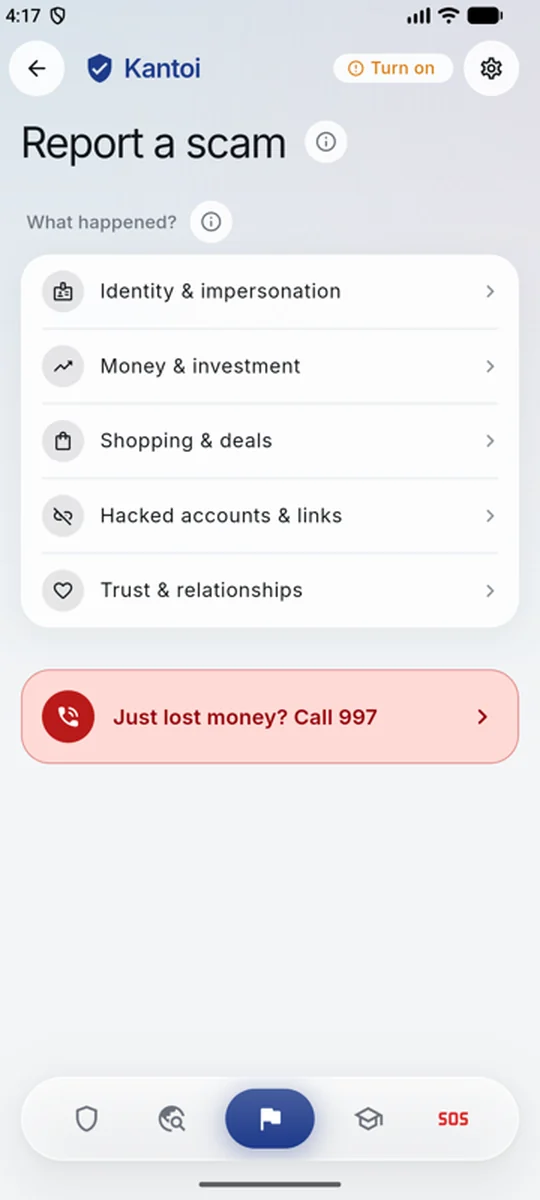
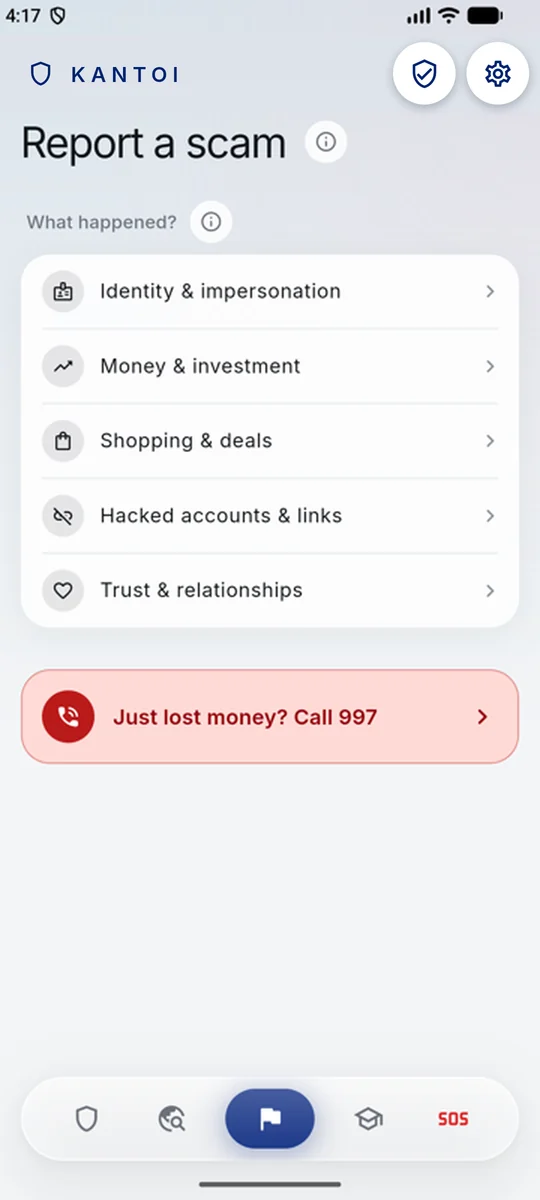
Use the KANTOI header on all five phone screens

Changed region(s): [[0.6222, 0.0308, 0.9778, 0.0925], [0.1481, 0.0308, 0.3852, 0.0925], [0.0, 0.0308, 0.1185, 0.0925]]

diff --git a/index.html b/index.html
@@ -11,7 +11,7 @@
 <link rel="preconnect" href="https://fonts.gstatic.com" crossorigin>
 <link rel="stylesheet" href="https://fonts.googleapis.com/css2?family=Inter:wght@400;600;800&display=swap">
 <link rel="stylesheet" href="https://fonts.googleapis.com/css2?family=Material+Symbols+Rounded:opsz,wght,FILL,GRAD@24,500,1,0&display=block">
-<link rel="stylesheet" href="style.css?v=9">
+<link rel="stylesheet" href="style.css?v=10">
 </head>
 <body>
 
@@ -204,7 +204,7 @@
       <div class="phone-notch"></div>
       <div class="phone-screen kui">
         <div class="k-status"><b>9:41</b><span class="ms">signal_cellular_alt</span><span class="ms">wifi</span><span class="ms">battery_full</span></div>
-        <div class="k-top"><svg class="mini-shield"><use href="#shield"/></svg><b>Kantoi</b><span class="ms">verified_user</span><span class="ms">settings</span></div>
+        <div class="k-top"><img src="screens/kantoi-header-light.png" width="1080" height="152" alt="Kantoi logo with the protection and settings buttons"></div>
         <div class="phone-scroll">
           <h3 class="k-title">Is this a scam?</h3>
           <div class="k-card">

diff --git a/style.css b/style.css
@@ -324,7 +324,8 @@ code { font-family: ui-monospace, Consolas, monospace; font-size: .88em; backgro
 .k-status { display: flex; align-items: center; gap: 4px; padding: 16px 22px 0 26px; font-size: 13px; color: #0B1C30; }
 .k-status b { margin-right: auto; font-weight: 600; }
 .k-status .ms { font-size: 15px; }
-.k-top { display: flex; align-items: center; gap: 8px; padding: 22px 18px 6px; }
+.k-top { padding: 0; margin-top: -4px; }
+.k-top img { display: block; width: 100%; height: auto; }
 .k-top b { font-size: 18px; color: var(--navy2); font-weight: 600; letter-spacing: -0.01em; margin-right: auto; }
 .k-top .ms { font-size: 21px; color: #0B1C30; margin-left: 10px; }
 .kui .phone-scroll { padding: 4px 14px 96px; gap: 12px; }
